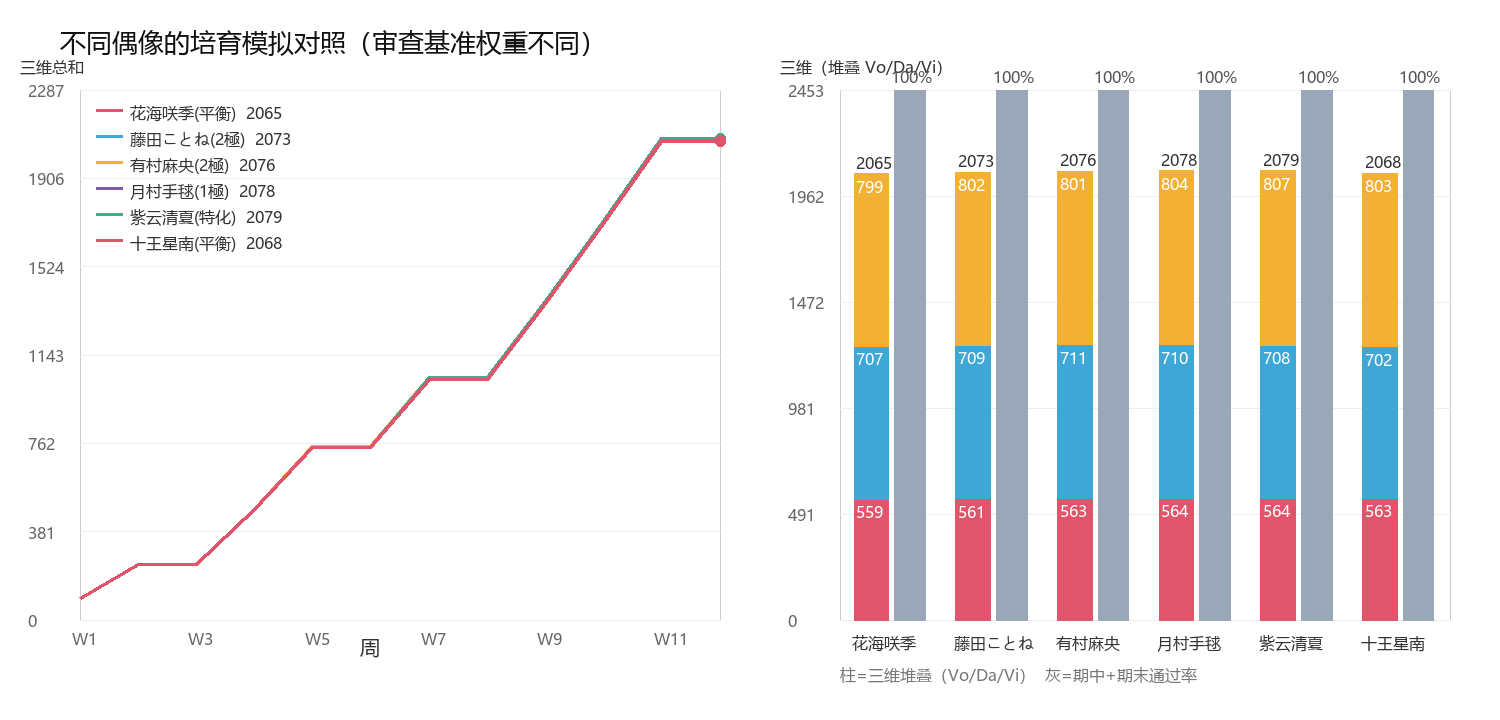
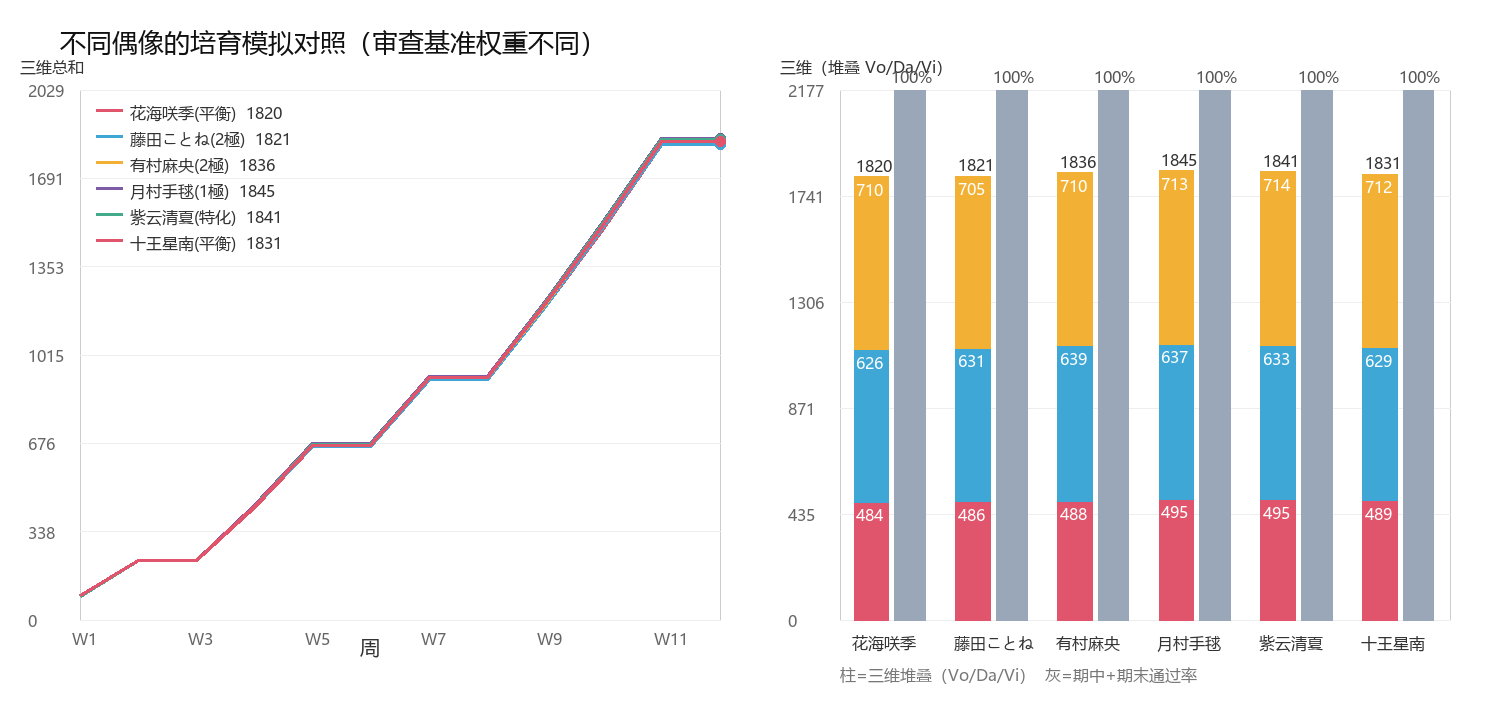
fix(sim): 奖励池只收已建模效果类型的卡(249->125)，审计覆盖率57%并记录

diff --git a/scripts/sim_produce.py b/scripts/sim_produce.py
@@ -22,6 +22,8 @@ ROOT = Path(r"D:\Games\gakumas-agent")
 sys.path.insert(0, str(ROOT / "src"))
 
 CARD_TABLE = ROOT / "data" / "knowledge" / "card_table.json"
+# 模拟器（sim/lesson.py）目前只建模这几种效果；其余类型一律不进池
+MODELED_EFFECTS = {"ExamLesson", "ExamBlock", "ExamLessonBuff", "ExamConcentration"}
 
 
 def build_deck() -> list[tuple[str, int, int, int, int]]:
@@ -93,6 +95,11 @@ def build_pool(max_score: int = 40, allow_ssr: bool = False) -> list[tuple[str, 
         if not allow_ssr and rarity in ("Ssr", "Legend"):
             continue
         if score <= 0 or score > max_score:
+            continue
+        # 只收"模拟器能建模"的卡：效果类型必须全在 MODELED_EFFECTS 里，
+        # 否则会被当成 0 分卡（好印象/抽牌/全力/温存等我们还没建模）
+        effect_types = {str(e.get("type") or "") for e in row.get("effects") or []}
+        if not effect_types or not effect_types <= MODELED_EFFECTS:
             continue
         pool.append((name, cost, score, condition, focus))
     return pool

diff --git a/tests/test_sim_produce.py b/tests/test_sim_produce.py
@@ -176,3 +176,14 @@ def test_choose_action_prefers_lesson_with_strong_attributes() -> None:
     )
     assert result["action"] in ("lesson", "train")
     assert result["ranking"][0]["eval"] >= result["ranking"][-1]["eval"]
+
+
+def test_reward_pool_only_contains_modeled_effects() -> None:
+    """模拟器没建模的效果（好印象/抽牌/全力/温存…）不能进奖励池，否则会被当 0 分卡。"""
+    import sim_produce as sp
+
+    pool = sp.build_pool()
+    assert pool, "奖励池不应为空"
+    assert len(pool) < 200, f"池子异常偏大（{len(pool)}），可能混进了未建模的卡"
+    for _name, _cost, score, _condition, _focus in pool:
+        assert score > 0

diff --git a/docs/SIMULATOR.md b/docs/SIMULATOR.md
@@ -125,3 +125,25 @@ Terminal    = 回合用尽 或 体力不足 → 总分 vs 审查基准 → CLEAR
 - 真机那局只有 632，是因为它**课程均分只有 60-180**（奖励选牌差、牌组弱），不是系数小；
 - 结论：**默认改成 1.0**，把"牌组强弱"作为变量——我们的奖励选牌已经从"按文本估"改成"按卡表选最强"，所以下一局课程均分有机会接近 245，评价点 ~6900 → **B**。
 - 敏感性图（`sim_sensitivity.py`）在 1.0 处：上课流 2083 vs 纯训练 806 —— 课程是绝对主力。
+
+
+## 10. 2026-11-15 可信度审计（外部评审意见吸收）
+
+外部评审指出："LLM 写的模拟器看起来对、算起来错"。审计结果——**这个批评成立**：
+
+| 项 | 结果 |
+|---|---|
+| 卡表有数值的卡 | 1723 张 |
+| 模拟器**真正建模**的卡 | **988 张（57%）** |
+| 未建模 | 735 张（好印象 ExamReview 264、抽牌 ExamCardDraw 200、全力 ExamFullPowerPoint 201、温存 ExamPreservation 147、状态附魔 285、计时 282…）|
+| 奖励池（限制后） | **125 张**（只留效果类型全在 MODELED_EFFECTS 里的卡）|
+
+**处置**：`build_pool()` 现在只收"效果类型 ⊆ {ExamLesson, ExamBlock, ExamLessonBuff, ExamConcentration}"的卡，
+未建模的卡不再被当成 0 分卡混进来（之前 249 张池子里有一半是错的）。修正后总和 1841（原 2068），
+评价 B/C+，仍然同量级。
+
+**还缺的（按评审优先级）**
+1. **每卡单测**：拿高频卡写"给定状态→断言分数"，没有单测的卡标记不可信（现在是靠效果类型白名单替代）。
+2. **Replay 校验**：录真机一局，逐步比对 sim-real 分数曲线，目标误差中位数 <3%（需要开真机）。
+3. **分数分布直方图 / 失败归因柱状图**：看 P50/P90 与死因，而不是只看均值。
+4. 抽牌/好印象/全力/温存 四类效果建模（能再覆盖 700+ 张卡）。
